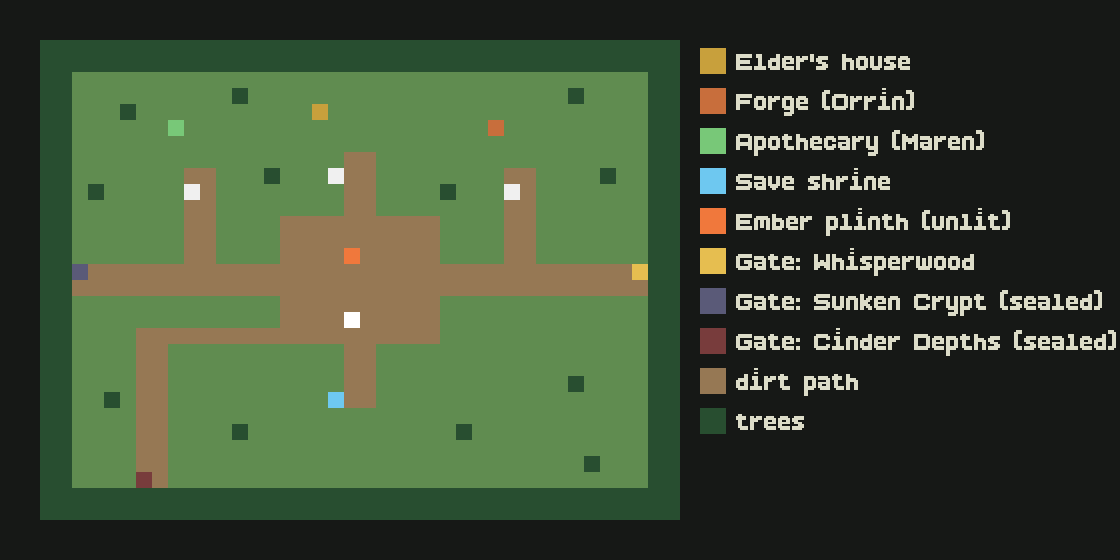
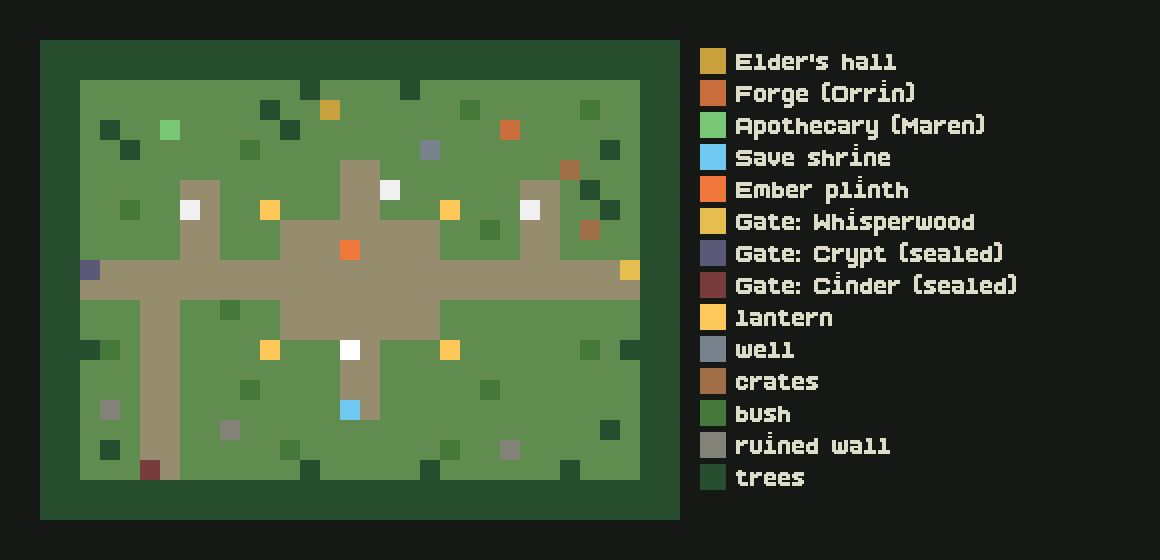
Town QA: denser 32x24 map, paths to every door, lanterns/well/crates/stones/ruins, barred sealed gates

Changed region(s): [[0.0625, 0.0607, 1.0, 0.9411], [0.375, 0.1821, 0.4375, 0.2429], [0.4062, 0.6679, 0.4375, 0.7286]]

diff --git a/src/game/scenes/HubScene.ts b/src/game/scenes/HubScene.ts
@@ -29,6 +29,11 @@ const PROPS: Record<string, { tex: string; w: number; h: number; foot: [number, 
   "gate-whisperwood": { tex: "gate", w: 64, h: 64, foot: [0, 0, 0, 0] },
   "gate-crypt": { tex: "gate", w: 64, h: 64, foot: [0, 0, 0, 0] },
   "gate-cinder": { tex: "gate", w: 64, h: 64, foot: [0, 0, 0, 0] },
+  lantern: { tex: "lantern", w: 32, h: 48, foot: [0.3, 1.1, 0.4, 0.4] },
+  well: { tex: "well", w: 48, h: 48, foot: [0.1, 0.6, 1.3, 0.9] },
+  crates: { tex: "crates", w: 32, h: 32, foot: [0, 0.3, 1, 0.7] },
+  bush: { tex: "bush", w: 32, h: 32, foot: [0.1, 0.4, 0.8, 0.6] },
+  "ruin-wall": { tex: "ruin-wall", w: 64, h: 32, foot: [0, 0.3, 2, 0.6] },
 };
 
 /**
@@ -57,7 +62,7 @@ export class HubScene extends Phaser.Scene implements PlayerHost {
   preload() {
     this.load.spritesheet("town-tiles", "assets/tiles/town.png", { frameWidth: TILE, frameHeight: TILE });
     this.load.json("town-meta", "assets/tiles/town.json");
-    for (const p of ["house-elder", "house-forge", "house-apothecary", "shrine", "plinth", "tree", "gate", "signpost"]) this.load.image(p, `assets/sprites/props/${p}.png`);
+    for (const p of ["house-elder", "house-forge", "house-apothecary", "shrine", "plinth", "tree", "gate", "signpost", "lantern", "well", "crates", "bush", "ruin-wall", "root", "block"]) this.load.image(p, `assets/sprites/props/${p}.png`);
     for (const n of ["blacksmith", "apothecary", "elder"]) this.load.image(`npc-${n}`, `assets/sprites/npc/${n}.png`);
     for (const i of ["potion", "bomb", "coin", "key"]) this.load.image(`icon-${i}`, `assets/ui/icons/${i}.png`);
     HERO.preload(this);
@@ -76,6 +81,12 @@ export class HubScene extends Phaser.Scene implements PlayerHost {
       const g = this.add.graphics();
       g.fillStyle(0xffffff, 1).fillCircle(3, 3, 3);
       g.generateTexture("spore", 6, 6);
+      g.destroy();
+    }
+    if (!this.textures.exists("halo")) {
+      const g = this.add.graphics();
+      for (let r = 24; r > 0; r -= 2) g.fillStyle(0xffa040, 0.05).fillCircle(24, 24, r);
+      g.generateTexture("halo", 48, 48);
       g.destroy();
     }
     const W = this.def.cols * TILE, H = this.def.rows * TILE;
@@ -188,7 +199,16 @@ export class HubScene extends Phaser.Scene implements PlayerHost {
         const img = this.add.image(x, y, p.tex).setOrigin(0).setDepth(y + p.h - 6);
         if (a.kind.startsWith("gate")) {
           const sealed = a.kind !== "gate-whisperwood";
-          if (sealed) img.setTint(0x9a9aa6);
+          if (sealed) {
+            img.setTint(0x9a9aa6);
+            // barred: roots choke the marsh gate, fallen stone blocks the mountain lane
+            if (a.kind === "gate-crypt") {
+              for (const [dx, sc] of [[14, 0.9], [30, 1.1], [46, 0.85]] as const) this.add.image(x + dx, y + 62, "root").setOrigin(0.5, 1).setScale(sc).setTint(0x8aa08a).setDepth(y + 63);
+            } else {
+              for (const [dx, dy] of [[8, 30], [30, 26], [20, 38]] as const) this.add.image(x + dx, y + dy, "block").setOrigin(0).setScale(0.8).setTint(0xb0a090).setDepth(y + dy + 26);
+            }
+            this.solids.add(this.add.zone(x + 32, y + 46, 56, 20));
+          }
           // a sign hangs by each gate; the walkable gap is the middle
           const zone = this.add.zone(x + 32, y + 40, 40, 30);
           this.physics.add.existing(zone, true);
@@ -201,6 +221,10 @@ export class HubScene extends Phaser.Scene implements PlayerHost {
         }
         const [fx, fy, fw, fh] = p.foot;
         if (fw > 0) this.solids.add(this.add.zone(x + (fx + fw / 2) * TILE, y + (fy + fh / 2) * TILE, fw * TILE, fh * TILE));
+        if (a.kind === "lantern") {
+          const halo = this.add.image(x + 16, y + 12, "halo").setDepth(y + p.h - 5).setBlendMode(Phaser.BlendModes.ADD).setAlpha(0.5).setScale(1.5);
+          this.tweens.add({ targets: halo, alpha: 0.32, scale: 1.35, duration: 180 + Math.random() * 140, yoyo: true, repeat: -1, ease: "Sine.easeInOut" });
+        }
         if (a.kind === "shrine") {
           const zone = this.add.zone(x + 32, y + 70, 60, 20);
           this.physics.add.existing(zone, true);

diff --git a/tools/make_town.py b/tools/make_town.py
@@ -1,9 +1,10 @@
 """Author + render the Emberfall town (hub) map: writes src/game/data/emberfall-town.json
-and docs/mockup/town-map.png. 40x30 tiles. '.' grass, '=' dirt path, 'T' tree, letters = anchors."""
+and docs/mockup/town-map.png. 32x24 tiles, dense: '.' grass, '=' flagstone path, 'T' tree,
+letters = anchors (see legend). Re-run after editing; the scene reads the JSON."""
 import json
 from PIL import Image, ImageDraw, ImageFont
 
-W, H = 40, 30
+W, H = 32, 24
 g = [["." for _ in range(W)] for _ in range(H)]
 
 
@@ -13,38 +14,51 @@ def fill(x0, y0, x1, y1, ch):
             g[y][x] = ch
 
 
-# tree border, two deep, with a few gaps for the gates
+def put(x, y, ch):
+    g[y][x] = ch
+
+
+# tree border, two deep
 fill(0, 0, W - 1, 1, "T")
 fill(0, H - 2, W - 1, H - 1, "T")
 fill(0, 0, 1, H - 1, "T")
 fill(W - 2, 0, W - 1, H - 1, "T")
-# plaza + paths
-fill(15, 11, 24, 18, "=")            # central plaza
-fill(19, 7, 20, 11, "=")             # north to the elder
-fill(19, 18, 20, 22, "=")            # south to the shrine
-fill(24, 14, 37, 15, "=")            # east to the Whisperwood gate
-fill(2, 14, 15, 15, "=")             # west to the crypt gate
-fill(9, 8, 10, 14, "=")              # apothecary spur
-fill(29, 8, 30, 14, "=")             # forge spur
-fill(6, 18, 7, 27, "=")              # south-west to the cinder gate
-fill(7, 18, 15, 18, "=")
-# buildings (3x3 anchors; the sprite is 96x96 drawn from the anchor's top-left)
-g[4][17] = "E"   # elder's house, rows 4-6, cols 17-19
-g[5][28] = "F"   # forge, rows 5-7
-g[5][8] = "A"    # apothecary, rows 5-7
-g[22][18] = "S"  # shrine, rows 22-24 (64x64 -> 2x2)
-g[13][19] = "P"  # ember plinth (48x64 -> ~1.5x2)
-g[14][37] = "1"  # Whisperwood gate (east)
-g[14][2] = "2"   # Sunken Crypt gate (west, sealed)
-g[27][6] = "3"   # Cinder Depths gate (south-west, sealed)
+# plaza + roads
+fill(12, 9, 19, 14, "=")             # plaza
+fill(15, 6, 16, 9, "=")              # north to the elder's hall
+fill(15, 14, 16, 18, "=")            # south to the shrine
+fill(19, 11, 29, 12, "=")            # east road to the Whisperwood gate
+fill(2, 11, 12, 12, "=")             # west road to the crypt gate
+fill(7, 7, 8, 11, "=")               # apothecary spur
+fill(24, 7, 25, 11, "=")             # forge spur
+fill(5, 12, 6, 21, "=")              # south-west lane to the cinder gate
+# buildings (96px = 3x3 from the anchor's top-left; doors sit on the middle column)
+put(14, 3, "E")   # elder's hall: cols 14-16, door at 15 -> path 15-16
+put(23, 4, "F")   # forge: cols 23-25, door at 24
+put(6, 4, "A")    # apothecary: cols 6-8, door at 7
+put(15, 18, "S")  # shrine 2x2
+put(15, 10, "P")  # ember plinth
+put(29, 11, "1")  # Whisperwood gate (east)
+put(2, 11, "2")   # Sunken Crypt gate (west, sealed)
+put(5, 21, "3")   # Cinder Depths gate (south-west, sealed)
 # npcs and spawn
-g[9][29] = "b"   # blacksmith
-g[9][9] = "a"    # apothecary
-g[8][18] = "e"   # elder
-g[17][19] = "@"
-# scattered trees + a well-worn stump or two
-for x, y in [(5, 4), (12, 3), (33, 3), (35, 8), (4, 22), (12, 24), (26, 24), (33, 21), (34, 26), (14, 8), (25, 9), (3, 9)]:
-    g[y][x] = "T"
+put(24, 8, "b")
+put(7, 8, "a")
+put(17, 7, "e")
+put(15, 15, "@")
+# dressing: lanterns on the plaza corners, a well, crates by the forge, bushes, ruined wall bits, tree clumps
+for x, y in [(11, 8), (20, 8), (11, 15), (20, 15)]:
+    put(x, y, "l")
+put(19, 5, "w")
+put(26, 6, "c")
+put(27, 9, "c")
+for x, y in [(4, 8), (10, 5), (21, 3), (27, 3), (3, 15), (10, 17), (22, 17), (27, 15), (12, 20), (20, 20), (9, 13), (22, 9)]:
+    put(x, y, "u")
+for x, y in [(9, 19), (23, 20), (3, 18)]:
+    put(x, y, "r")
+for x, y in [(3, 4), (4, 5), (11, 3), (12, 4), (28, 5), (27, 7), (3, 20), (26, 21), (28, 19), (13, 21), (19, 21), (29, 15), (2, 15), (13, 2), (18, 2), (28, 8)]:
+    if g[y][x] == ".":
+        put(x, y, "T")
 
 rows = ["".join(r) for r in g]
 data = {
@@ -52,12 +66,13 @@ data = {
     "name": "Emberfall",
     "cols": W,
     "rows": H,
-    "spawn": {"tx": 19.5, "ty": 18},
+    "spawn": {"tx": 15.5, "ty": 15},
     "legend": {
         ".": "grass", "=": "path", "T": "tree",
         "E": "house-elder", "F": "house-forge", "A": "house-apothecary", "S": "shrine", "P": "plinth",
         "1": "gate-whisperwood", "2": "gate-crypt", "3": "gate-cinder",
         "b": "npc-blacksmith", "a": "npc-apothecary", "e": "npc-elder", "@": "spawn",
+        "l": "lantern", "w": "well", "c": "crates", "u": "bush", "r": "ruin-wall",
     },
     "map": rows,
     "npcs": {
@@ -69,21 +84,20 @@ data = {
 json.dump(data, open("src/game/data/emberfall-town.json", "w", encoding="utf-8"), indent=2)
 
 # render
-T = 8
-im = Image.new("RGB", (W * T + 240, H * T + 40), (22, 24, 22))
+T = 10
+im = Image.new("RGB", (W * T + 260, H * T + 40), (22, 24, 22))
 d = ImageDraw.Draw(im)
-COL = {".": (96, 140, 80), "=": (150, 120, 84), "T": (40, 78, 48), "E": (200, 160, 60), "F": (200, 110, 60), "A": (120, 200, 120), "S": (110, 200, 240), "P": (240, 120, 60), "1": (230, 190, 80), "2": (90, 90, 120), "3": (120, 60, 60), "b": (240, 240, 240), "a": (240, 240, 240), "e": (240, 240, 240), "@": (255, 255, 255)}
+COL = {".": (96, 140, 80), "=": (150, 140, 110), "T": (40, 78, 48), "E": (200, 160, 60), "F": (200, 110, 60), "A": (120, 200, 120), "S": (110, 200, 240), "P": (240, 120, 60), "1": (230, 190, 80), "2": (90, 90, 120), "3": (120, 60, 60), "b": (240, 240, 240), "a": (240, 240, 240), "e": (240, 240, 240), "@": (255, 255, 255), "l": (255, 200, 90), "w": (120, 130, 140), "c": (160, 110, 70), "u": (70, 120, 60), "r": (130, 130, 120)}
 for y, row in enumerate(rows):
     for x, ch in enumerate(row):
-        c = COL.get(ch, (255, 0, 255))
-        d.rectangle([20 + x * T, 20 + y * T, 20 + x * T + T - 1, 20 + y * T + T - 1], fill=c)
+        d.rectangle([20 + x * T, 20 + y * T, 20 + x * T + T - 1, 20 + y * T + T - 1], fill=COL.get(ch, (255, 0, 255)))
 try:
     F = ImageFont.truetype("public/assets/fonts/EmberfallPixel.ttf", 16)
 except Exception:
     F = ImageFont.load_default()
-legend = [("E", "Elder's house"), ("F", "Forge (Orrin)"), ("A", "Apothecary (Maren)"), ("S", "Save shrine"), ("P", "Ember plinth (unlit)"), ("1", "Gate: Whisperwood"), ("2", "Gate: Sunken Crypt (sealed)"), ("3", "Gate: Cinder Depths (sealed)"), ("=", "dirt path"), ("T", "trees")]
+legend = [("E", "Elder's hall"), ("F", "Forge (Orrin)"), ("A", "Apothecary (Maren)"), ("S", "Save shrine"), ("P", "Ember plinth"), ("1", "Gate: Whisperwood"), ("2", "Gate: Crypt (sealed)"), ("3", "Gate: Cinder (sealed)"), ("l", "lantern"), ("w", "well"), ("c", "crates"), ("u", "bush"), ("r", "ruined wall"), ("T", "trees")]
 for i, (ch, name) in enumerate(legend):
-    y = 24 + i * 20
+    y = 24 + i * 16
     d.rectangle([W * T + 30, y, W * T + 42, y + 12], fill=COL[ch])
     d.text((W * T + 48, y - 2), name, font=F, fill=(220, 220, 200))
 im = im.resize((im.width * 2, im.height * 2), Image.NEAREST)

diff --git a/docs/NIGHT_LOG.md b/docs/NIGHT_LOG.md
@@ -21,3 +21,4 @@ Read top to bottom; each entry is one committed increment. "Ask" items are taste
 | 10:xx | 10 · Shop + upgrades | Bump Maren or Orrin to open their stall (pixel panel: card per item with price and the delta, greyed when you can't afford / can't carry more / already own it, Esc leaves). Maren: potions 20g (max 5), bombs 15g (max 5), one heart container 120g. Orrin: Tempered Sword 80g (2 dmg), Ember-forged 200g (3 dmg, needs the first). Sword tier drives strike damage and the bag hint; saved (v5). Skipped armour tiers — with half-heart damage there's no honest number to show; noted for later. | 0 |
 
 Backlog complete (1–10). Waiting on the user for the next direction: Sunken Crypt, or another pass on what's here.
+| 11:xx | Hub visual QA | First captures (docs/sprite-review/hub-qa.png) showed a golf course: 40x30 of flat grass around five props. Rebuilt the town at 32x24 with paths that reach every door, lanterns (with halos) on the plaza corners, a well, crates by the forge, stones, ruined wall bits, tree clumps; sealed gates are now visibly barred (roots on the marsh gate, fallen blocks on the mountain lane) and solid. After: docs/sprite-review/hub-qa-2.png. Known: the "bush" prop reads as a stone (kept as stones); the tree border reads as a hedge. | 25 |
